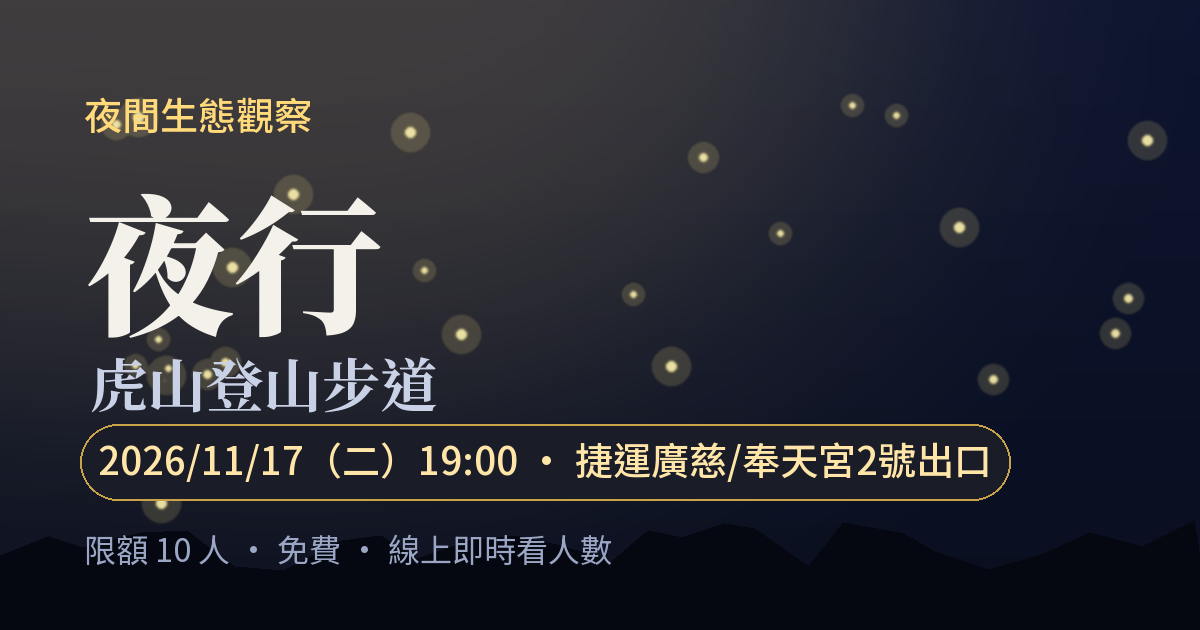
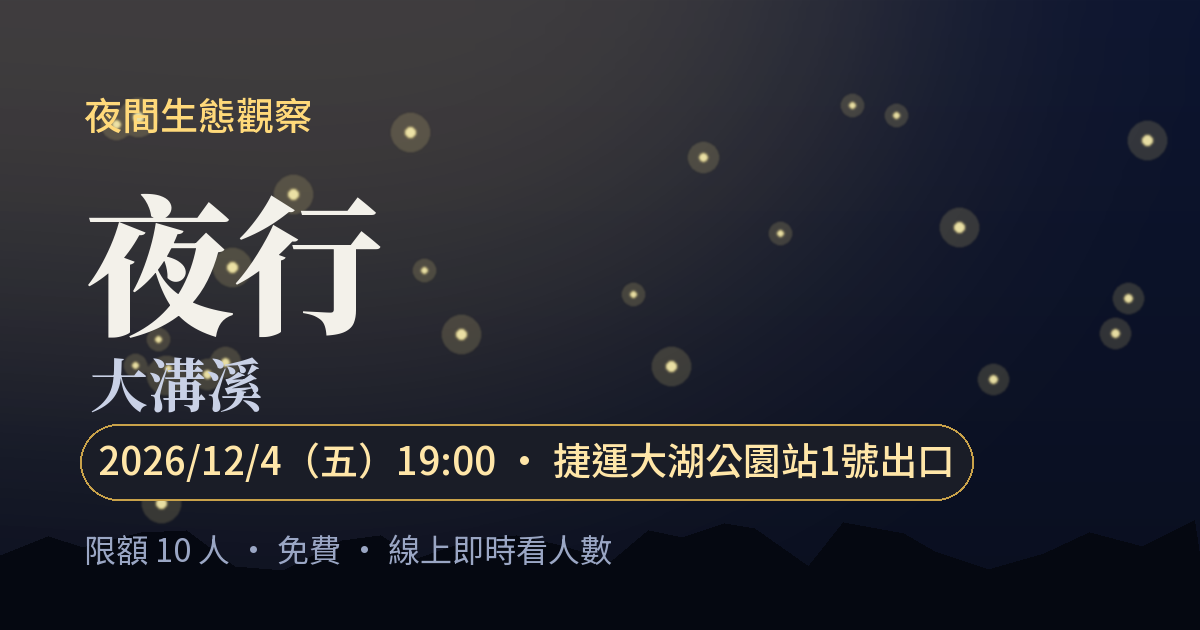
Switch to event 3 (12/4 大溝溪)
Regenerate og.png, event.ics and the share text from the sheet, and
update the page's pre-load fallback text to the new date, meeting
point, map link and route.

Changed region(s): [[0.185, 0.6635, 0.8325, 0.7841], [0.0617, 0.573, 0.37, 0.6635]]

diff --git a/index.html b/index.html
@@ -3,17 +3,17 @@
 <head>
   <meta charset="utf-8">
   <meta name="viewport" content="width=device-width, initial-scale=1, viewport-fit=cover">
-  <title>夜行・虎山｜線上報名</title>
-  <meta name="description" content="捷運廣慈/奉天宮2號出口集合，夜訪虎山登山步道。限額 10 人・免費・線上報名即時看人數。">
+  <title>夜行・大溝溪｜線上報名</title>
+  <meta name="description" content="捷運大湖公園站1號出口集合，夜訪大溝溪。限額 10 人・免費・線上報名即時看人數。">
   <meta name="theme-color" content="#0a0f1f">
 
   <!-- LINE / 社群分享預覽（LINE 不會執行 JavaScript，這裡要寫死） -->
   <meta property="og:type" content="website">
   <meta property="og:site_name" content="夜行">
-  <meta property="og:title" content="夜行・虎山登山步道｜11/17（二）19:00">
-  <meta property="og:description" content="捷運廣慈/奉天宮2號出口集合，夜訪虎山登山步道。限額 10 人・免費・線上報名即時看人數。">
+  <meta property="og:title" content="夜行・大溝溪｜12/4（五）19:00">
+  <meta property="og:description" content="捷運大湖公園站1號出口集合，夜訪大溝溪。限額 10 人・免費・線上報名即時看人數。">
   <meta property="og:url" content="https://wang-yi-zhang.github.io/night-walk/">
-  <meta property="og:image" content="https://wang-yi-zhang.github.io/night-walk/og.png?v=604b29092a">
+  <meta property="og:image" content="https://wang-yi-zhang.github.io/night-walk/og.png?v=8e58b766c4">
   <meta property="og:image:width" content="1200">
   <meta property="og:image:height" content="630">
   <meta name="twitter:card" content="summary_large_image">
@@ -32,8 +32,8 @@
     <div class="fireflies" aria-hidden="true"><i></i><i></i><i></i><i></i><i></i><i></i><i></i></div>
     <div class="hero-inner">
       <p class="kicker"><span data-field="kicker">夜間生態觀察</span></p>
-      <h1 class="title"><span data-field="title-main">夜行</span><small data-field="title-sub">虎山</small></h1>
-      <p class="when"><span data-field="when">2026/10/26（一）19:00–21:00</span></p>
+      <h1 class="title"><span data-field="title-main">夜行</span><small data-field="title-sub">大溝溪</small></h1>
+      <p class="when"><span data-field="when">2026/12/4（五）19:00–21:00</span></p>
     </div>
     <svg class="treeline" viewBox="0 0 1200 120" preserveAspectRatio="none" aria-hidden="true">
       <path d="M0 120V78c40-6 60-30 92-28s38 24 70 20 40-46 78-44 44 34 82 30 52-50 96-48 48 40 90 38 40-22 76-20 46 30 88 26 54-56 104-54 50 44 92 42 42-26 82-24 50 32 96 28 60-40 102-38 52 30 82 28V120Z"/>
@@ -143,8 +143,8 @@
         <p id="success-text" class="success-text"></p>
         <dl class="ticket">
           <div><dt>暱稱</dt><dd id="ticket-nickname"></dd></div>
-          <div><dt>時間</dt><dd data-field="when">2026/10/26（一）19:00–21:00</dd></div>
-          <div><dt>集合</dt><dd data-field="place">捷運廣慈/奉天宮2號出口</dd></div>
+          <div><dt>時間</dt><dd data-field="when">2026/12/4（五）19:00–21:00</dd></div>
+          <div><dt>集合</dt><dd data-field="place">捷運大湖公園站1號出口</dd></div>
         </dl>
         <div class="cal-buttons" data-cal></div>
         <p class="screenshot-tip">📸 建議截圖本畫面。如需取消，請 LINE 或 Email 主辦。</p>
@@ -156,11 +156,11 @@
     <section class="card info" aria-labelledby="info-h">
       <h2 id="info-h" class="eyebrow">活動資訊</h2>
       <dl class="info-list">
-        <div><dt>時間</dt><dd data-field="when">2026/10/26（一）19:00–21:00</dd></div>
-        <div><dt>集合</dt><dd><span data-field="place">捷運廣慈/奉天宮2號出口</span> <a id="map-link" class="inline-link" href="https://maps.app.goo.gl/PW6KmsauQ44ceopa7" target="_blank" rel="noopener">地圖 ↗</a></dd></div>
-        <div><dt>路線</dt><dd data-field="route">虎山登山步道</dd></div>
+        <div><dt>時間</dt><dd data-field="when">2026/12/4（五）19:00–21:00</dd></div>
+        <div><dt>集合</dt><dd><span data-field="place">捷運大湖公園站1號出口</span> <a id="map-link" class="inline-link" href="https://maps.app.goo.gl/jTiqMDnKZ8NJZ3d67" target="_blank" rel="noopener">地圖 ↗</a></dd></div>
+        <div><dt>路線</dt><dd data-field="route">大溝溪</dd></div>
         <div><dt>費用</dt><dd data-field="fee">免費</dd></div>
-        <div><dt>截止</dt><dd data-field="deadline">10/26（一）12:00</dd></div>
+        <div><dt>截止</dt><dd data-field="deadline">12/4（五）12:00</dd></div>
       </dl>
       <div id="info-cal" class="info-cal" hidden>
         <p class="cal-note">已報名者可加入行事曆</p>
